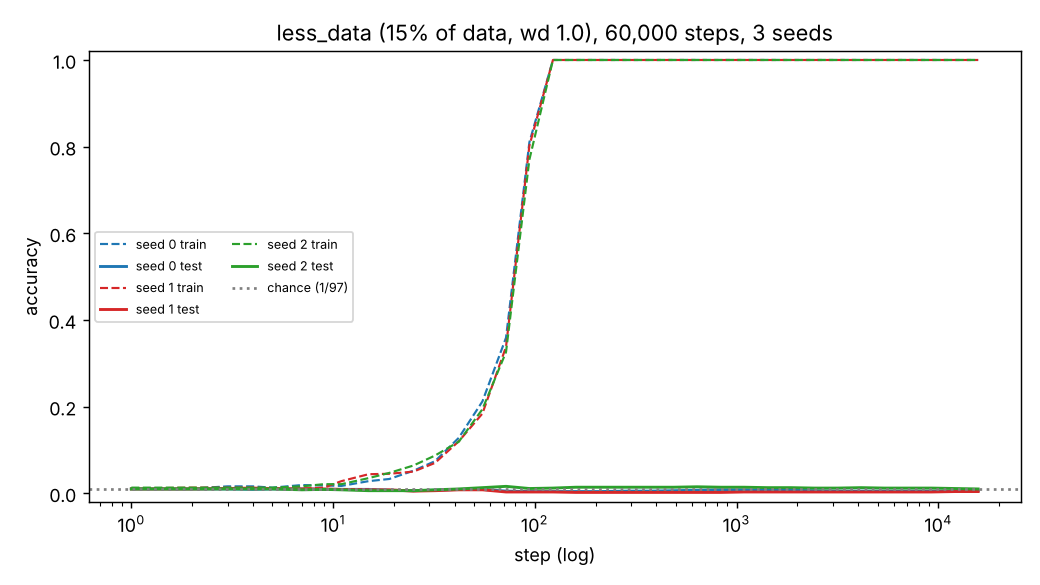
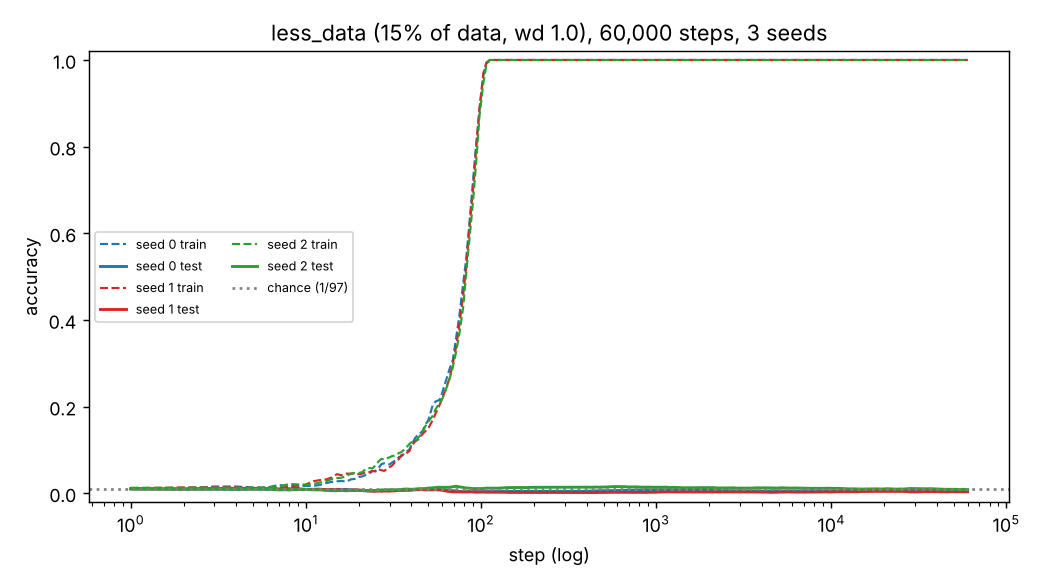
less_data long-horizon: final results at 60k steps (no grokking in 3 seeds)
Claude-Session: https://claude.ai/code/session_01NWdGKsKb8iGuN6MBLWWrCx

diff --git a/notes/less_data_long.md b/notes/less_data_long.md
@@ -1,14 +1,61 @@
-# less_data at a long horizon — PARTIAL (runs in progress)
+# less_data at a long horizon (60,000 steps)
 
-Status: interim snapshot at step 15,769 of 60,000 (~26%). Final numbers will replace this.
+**Question:** does `less_data` (15% of the 97×97 sums, weight decay 1.0), which is at chance after the
+default 25,000 steps, grok if trained much longer?
 
-Runs: `python train/train.py --run less_data --seed {0,1,2} --set steps=60000 --tag long60k_seed{0,1,2}`
-(100k did not fit the deadline; see final version for timing.)
+**Answer within this horizon: no.** All three seeds memorise by step ~110 and stay at chance on unseen
+sums through step 60,000.
 
-| seed | step | train acc | test acc | train ≥99% at | test ≥95% at |
+## What was run
+
+```
+OMP_NUM_THREADS=1 python train/train.py --run less_data --seed {0,1,2} --set steps=60000 --tag long60k_seed{0,1,2}
+```
+
+- **Steps: 60,000, not the 100,000 asked for.** Timing on this 4-core CPU container: one run alone took
+  81 s for 2,000 steps (40.5 ms/step, so 100k ≈ 68 min). Three in parallel took 195 s for 2,000 steps
+  (~97 ms/step each), so 100k would have needed ~2h40m and missed the 02:30 deadline. 60k was the
+  largest round number that fitted. Actual wall time: 4,791–5,216 s per run (80–87 min), all 3 in parallel.
+- Every other setting is the repo's `less_data` config, unchanged. No code or config edits.
+- Metrics come from the standard `run.json` logging: 200 log-spaced evaluation points per run (the adaptive
+  dense recording never triggered, since test accuracy never moved).
+- Definitions from `notes/log.md`: memorisation = first recorded step with train acc ≥ 99%;
+  grokking = first recorded step with test acc ≥ 95%.
+
+## Results
+
+| seed | final train acc | final test acc | max test acc (any step) | train ≥ 99% at | grokking step |
 |---|---|---|---|---|---|
-| 0 | 15,769 | 100% | 0.6% | 123 | not yet |
-| 1 | 15,769 | 100% | 0.4% | 123 | not yet |
-| 2 | 15,769 | 100% | 1.0% | 123 | not yet |
+| 0 | 100% | 0.74% | 1.04% | 107 | did not grok within 60,000 steps |
+| 1 | 100% | 0.33% | 1.15% | 107 | did not grok within 60,000 steps |
+| 2 | 100% | 0.84% | 1.61% | 112 | did not grok within 60,000 steps |
 
-Interim curves (png/csv) are from the logged stdout lines (40 log-spaced points so far), not run.json.
+Chance is 1/97 ≈ 1.03%. Final test loss ≈ 39–40 nats (vs ln 97 ≈ 4.57 for a uniform guess), so the
+model is confidently wrong on unseen sums, not uncertain.
+
+Files: `less_data_long.png` (train dashed / test solid, log-x, chance dotted),
+`less_data_long.csv` (~53 log-spaced points per seed: step, seed, train_acc, test_acc).
+
+## Interpretation
+
+Extending training from 25k to 60k steps changes nothing for `less_data`: every seed memorises the
+15% training set in ~110 steps and test accuracy then sits flat at or slightly below chance for the
+remaining ~59,900 steps, with no upward drift late in training. For comparison, the 30% baseline
+groks at 4k–10k steps, i.e. 30–75× after memorisation; here we have waited ~550× past memorisation
+without any sign of a transition. The test loss stays near 40 nats rather than falling, which suggests
+weight decay is not slowly pulling the network toward a generalising solution at this data fraction —
+the memorising solution looks stable. This is consistent with a data-fraction threshold somewhere
+between 15% and 30% below which this setup does not grok in practical time, but these runs cannot
+rule out a much later transition.
+
+## Limitations
+
+- **60k, not 100k, steps** (CPU time limit). "Did not grok" means not within 60,000 steps; a transition
+  later than that is not excluded.
+- Three seeds, one learning rate (1e-3) and one weight decay (1.0); grokking at low data fractions is
+  known to be sensitive to both, and higher weight decay might change the outcome.
+- Evaluation is on a log-spaced grid (200 points), so late-run resolution is coarse (~1.5k steps
+  between points near 60k). A brief excursion between points would be missed, but a sustained climb
+  to 95% would not.
+- Runs used `OMP_NUM_THREADS=1` with 3 processes sharing 4 cores; this should affect speed only, but
+  results may not be bit-identical to the repo's default-thread runs.
